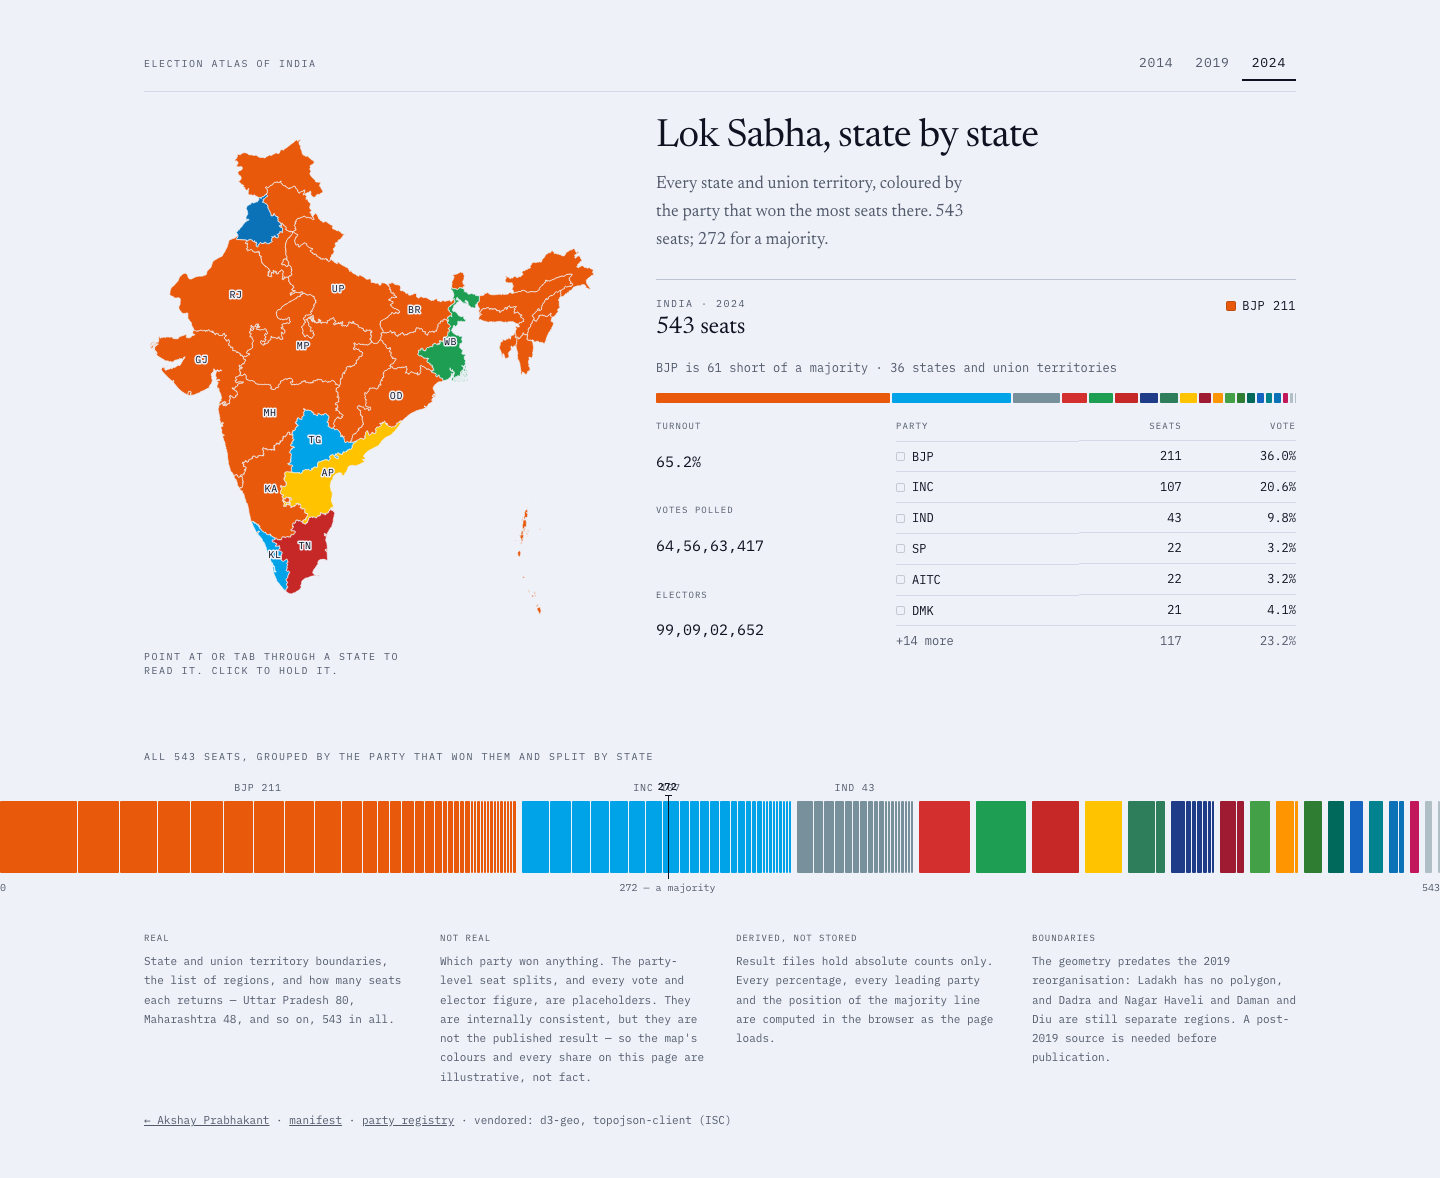
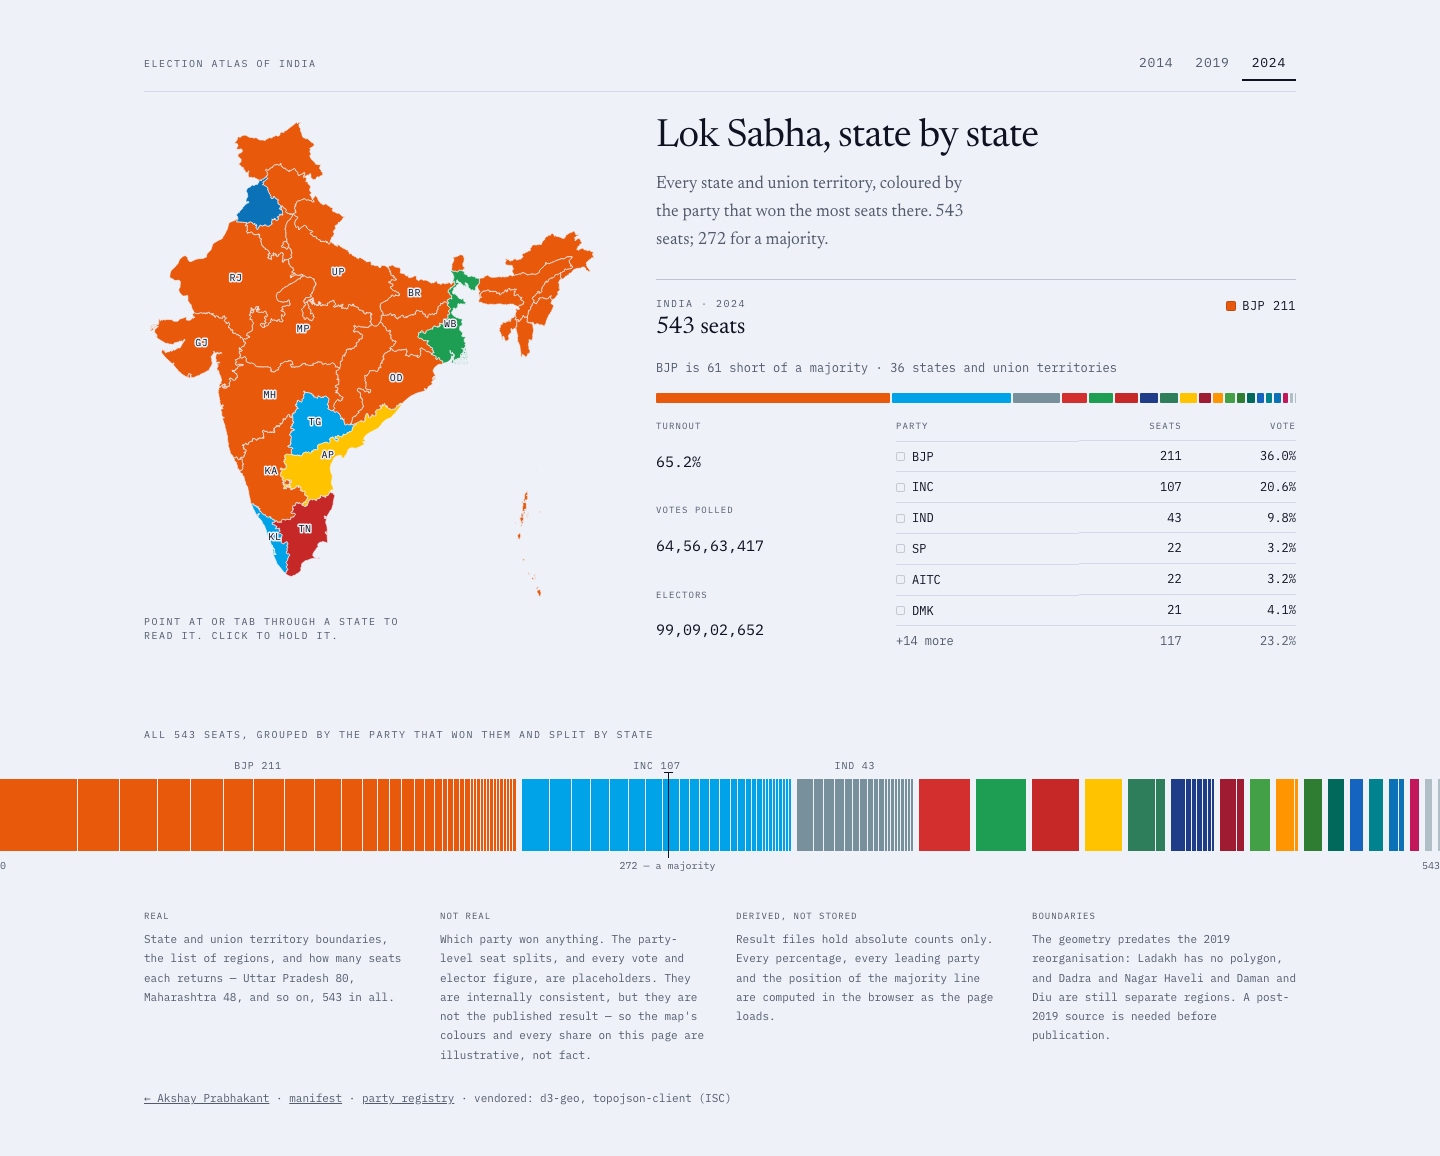
Fix the majority label collision and a radius that broke the narrow bar
Two defects the pixel pass caught that a look at the page had not.

The 272 was printed on top of the INC label. The majority line sits at x=668
and the "INC 107" run label is centred at x=657, so the two numbers were drawn
over each other. The axis under the bar already says "272 — a majority" centred
on the same x, so the number above the line was a duplicate as well as a
collision. Removed.

The strip's blocks carried a 1px border-radius. That is invisible on a 77px
block and fatal to a 2px one: at 390px a seat is 0.68px wide, so the tail blocks
are 1-5px and rounding anti-aliased them away — 42% of the mobile bar was
blended edge. Removing it: exact-colour pixels 54% -> 95% on mobile (71% -> 86%
on desktop), blended 42% -> 0%.

Also gives the map its real aspect ratio (India's ink is 410x438) so the height
follows the width. At 768-834px the map had been filling 53% of its own column;
it now fills 96-98% on both axes at every width from 360 to 2560, and no
viewport in that range scrolls horizontally.

diff --git a/work/election-atlas/index.html b/work/election-atlas/index.html
@@ -71,7 +71,14 @@ main{padding:0 var(--pad)}
   padding:var(--s5) 0 clamp(1.5rem,3vw,2.5rem);
 }
 .mapfig{margin:0;min-width:0}
-#map{display:block;width:100%;height:clamp(21rem,58vh,34rem);overflow:visible}
+#map{
+  display:block;width:100%;height:auto;overflow:visible;
+  /* India's projected ink is 410x438. Declaring that as the intrinsic ratio, and
+     capping only the WIDTH, means the height always follows from the width — the
+     map can never be letterboxed inside its own box, at any breakpoint. */
+  aspect-ratio:410 / 438;
+  max-width:calc(clamp(20rem,58vh,34rem) * .9361);
+}
 #map path{
   stroke:var(--paper);stroke-width:.75;stroke-linejoin:round;
   fill:var(--c);cursor:pointer;
@@ -130,8 +137,13 @@ main{padding:0 var(--pad)}
 }
 .strip{position:relative;display:flex;gap:6px;height:clamp(3rem,7vw,4.5rem);align-items:stretch}
 .run{display:flex;gap:1px;min-width:0}
-.rg{display:block;min-width:0;border-radius:1px;background:var(--c);
-    transition:background .22s var(--ease),opacity .16s var(--ease)}
+.rg{
+  display:block;min-width:0;background:var(--c);
+  /* No border-radius here on purpose. A 1px radius is invisible on a 77px block
+     and destroys a 2px one: at 390px a seat is 0.68px wide, so most blocks in the
+     tail are 1-5px and rounding them turned 42% of the mobile bar into
+     anti-aliased edge. Rounded corners are for boxes that can afford them. */
+  transition:background .22s var(--ease),opacity .16s var(--ease)}
 .rg.is-active{opacity:1;box-shadow:0 0 0 1.5px var(--ink)}
 /* Seat-level hairlines only where a seat is genuinely wide enough to be seen as
    one. Below this the texture would be a dither, so it is not drawn at all. */
@@ -139,13 +151,9 @@ main{padding:0 var(--pad)}
   .rg{background-image:linear-gradient(to right,transparent calc(100% - 1px),var(--paper) 0);
       background-size:calc(100% / var(--seats)) 100%}
 }
-.majline{position:absolute;top:-6px;bottom:-6px;width:1px;background:var(--ink);pointer-events:none}
+.majline{position:absolute;top:-7px;bottom:-7px;width:1px;background:var(--ink);pointer-events:none}
 .majline::before{
-  content:"";position:absolute;top:0;left:-3px;width:7px;height:1px;background:var(--ink);
-}
-.majline b{
-  position:absolute;top:-16px;left:0;transform:translateX(-50%);
-  font-family:var(--mono);font-size:.625rem;font-weight:500;letter-spacing:.06em;white-space:nowrap;
+  content:"";position:absolute;top:0;left:-4px;width:9px;height:1px;background:var(--ink);
 }
 .axis{position:relative;height:1.15rem;margin-top:7px}
 .axis span{position:absolute;top:0;font-family:var(--mono);font-size:.625rem;color:var(--muted);white-space:nowrap}
@@ -186,7 +194,6 @@ main{padding:0 var(--pad)}
   .intro{order:1}
   .mapfig{order:2}
   .readout{order:3}
-  #map{height:clamp(20rem,62vw,28rem)}
   .side{gap:var(--s5)}
   /* Narrow: the state split stops being legible long before the party split
      does, so the strip keeps the party structure and drops the subdivisions
@@ -216,7 +223,7 @@ main{padding:0 var(--pad)}
 
   <section class="field">
     <figure class="mapfig">
-      <svg id="map" viewBox="0 0 600 520" preserveAspectRatio="xMidYMid meet"
+      <svg id="map" viewBox="0 0 410 438" preserveAspectRatio="xMidYMid meet"
            role="img" aria-label="Map of India; each state and union territory filled with the colour of the party that won the most seats there."></svg>
       <p class="lbl mapnote" id="mapnote">Point at or tab through a state to read it. Click to hold it.</p>
     </figure>
@@ -536,8 +543,6 @@ function measureStrip() {
   if (lineX !== null) {
     const line = el('div', 'majline');
     line.style.left = lineX.toFixed(2) + 'px';
-    const b = el('b'); b.textContent = MAJORITY;
-    line.appendChild(b);
     stripEl.appendChild(line);
   }
 

diff --git a/.design/memory.md b/.design/memory.md
@@ -95,6 +95,52 @@ Scores: **v1 5.6 → v2 6.3**.
 piece of work sat 1.94 screens down. The fix was not to trim About but to **fold it into the title
 plate**, which also removed one of five identical opener bands. Work's first row went y1744 → y1375.
 
+15. **A chart whose labels contradict the numbers beside it is worse than no chart.** The seat strip
+    grouped states by the party each *leads*, so a run labelled "BJP 387" sat an inch from a readout
+    saying "BJP 211". Both were right. A reader had no way to learn they counted different things, and
+    no amount of styling fixes a graphic that means two things at once. When two numbers sit on one
+    screen, make them count the same thing or say plainly what each counts.
+
+16. **When colour is the only channel, the palette is a data problem — score it against the data's own
+    adjacency, not against taste.** Deriving the border graph from the TopoJSON's shared arcs turned
+    "these colours look fine" into 32 pairs and a ΔE per pair. It found TDP amber 22 ΔE from BJP
+    saffron across three real borders, and two parties that were byte-identical. It also proved one
+    pair *cannot* be fixed: TDP/BJP/DMK form a triangle inside the orange-to-red arc, so any three
+    colours there are either indistinguishable or stop being recognisable as those parties. The
+    answer was a second channel, not a cleverer palette. **Optimising a colour metric alone will
+    happily hand you a muddy brown for the BJP.** Constrain hue family first, then separate.
+
+17. **A redraw silently invalidates everything bound to the old elements.** `drawMap()` rebuilds every
+    `<path>` on resize; listeners attached per path died with them, so the map drew perfectly and did
+    nothing at all — and the paths also lost the inline `--c` that coloured them, rendering black.
+    Both were invisible in a screenshot. Delegate events from a stable ancestor, and treat "apply
+    state to elements" as a function that must re-run after any rebuild.
+
+18. **Mixing projected and geographic coordinates fails silently.** `geoPath.centroid()` returns
+    pixels; `geoContains()` takes [longitude, latitude]. Every containment test returned false, every
+    map label was dropped, and nothing threw. The guard `if (at) continue` turned a units bug into a
+    blank feature.
+
+19. **Headless `--virtual-time-budget` freezes CSS transitions.** A computed style read after a state
+    change returns a mid-interpolation colour — an orange that was on its way to grey read as "the
+    empty state is broken". Assert rendered colours with transitions disabled, or the measurement
+    will send you chasing a bug that is not there.
+
+20. **Measure the composition; do not eyeball it.** "The map looks a bit small" is not actionable.
+    `getBBox()` against the container said the map filled **65%** of its column — 216px of dead space —
+    and that the strip's axis fell 27px below the fold. Resizing the column to the map's real ink
+    dimensions took it to 97%, and putting the readout's totals beside its table rather than above it
+    brought the whole instrument back above 900px. Both were arithmetic, not taste.
+
+21. **Not every defect is a layout defect.** The mobile footer was 629px of fine print and read as a
+    spacing failure. Two columns measured **634px against 629px** — halving the width doubles the
+    lines and the pairing saves nothing. The height was text volume. Measure the competing fix before
+    rewriting the layout.
+
+22. **A breakpoint should drop a channel, not shrink it.** The seat strip keeps its party runs below
+    60rem and drops the per-state subdivisions. The state split stops being legible long before the
+    party split does, so keeping both would mean neither reads — and the bar would be 23% gaps.
+
 ## Numbers worth keeping
 
 | | v1 | v2 | v3 |

diff --git a/.design/atlas-direction.md b/.design/atlas-direction.md
@@ -169,3 +169,25 @@ becomes the tallest element, and **the whole instrument now ends at 898px — ab
 - Two-column footer tested at 390px: **634px tall against 629px for one column.** Halving the width
   doubles the lines; the pairing saves nothing. The footer's height is text volume, not layout, so it
   stays one readable column.
+
+## The QA pass, and what it took to run it
+
+The vision backend was rate-limited for this session, so the critique could not be a model looking
+at a screenshot. It was done the other way: a small pure-Python PNG decoder, a row-by-row profile of
+the render, and colour histograms against the party registry. That turned out to find things a look
+would have missed as easily as it missed them.
+
+- **The 272 was printed on top of the INC label.** The majority line sat at x=668 and the `INC 107`
+  run label is centred at x=657 — 11px apart, both drawn, both illegible. The axis beneath the bar
+  already said "272 — a majority" at the same x, so the number above the line was a duplicate before
+  it was a collision. Deleted. Verified after: the run labels occupy y762-768, the line y772-857, the
+  axis label x620-716 centred on a line at x=668.
+- **A 1px border-radius was destroying the mobile bar.** At 390px a seat is 0.68px wide, so the tail
+  blocks are 1–5px and rounding them anti-aliased most of the block away: **42% of the mobile strip
+  was blended edge**. Removing the radius took it to **0%, with exact-colour pixels going 54% → 95%**
+  (desktop 71% → 86%). A radius that is invisible on a 77px block is not invisible on a 2px one.
+- **The rendered palette was confirmed against the registry, not assumed.** Decoding the map area
+  returned exactly six saturated colours — `#E8590C #FFC300 #00A2E8 #C62828 #1E9E52 #0B72B8` — the
+  six leading parties and nothing else.
+- **The map fills 96–98% of its box on both axes at every width from 360 to 2560**, and no viewport
+  in that range scrolls horizontally.
